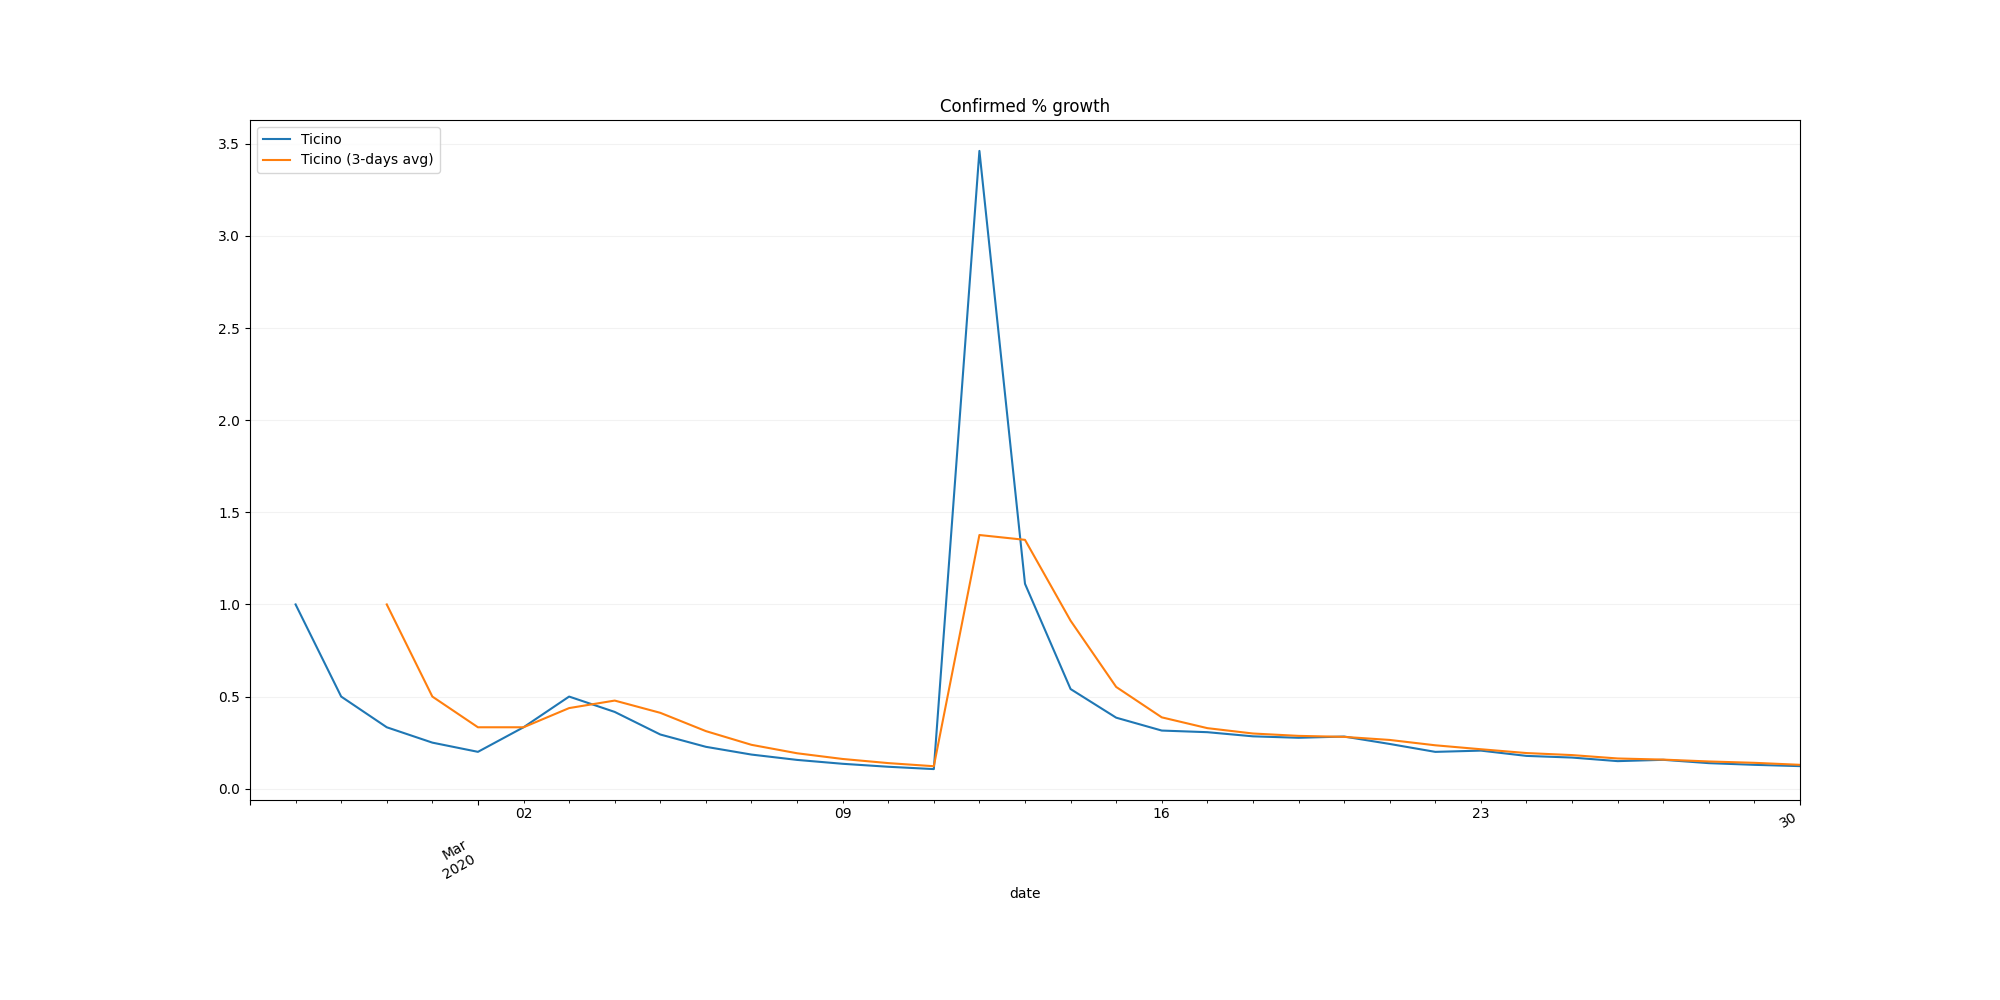
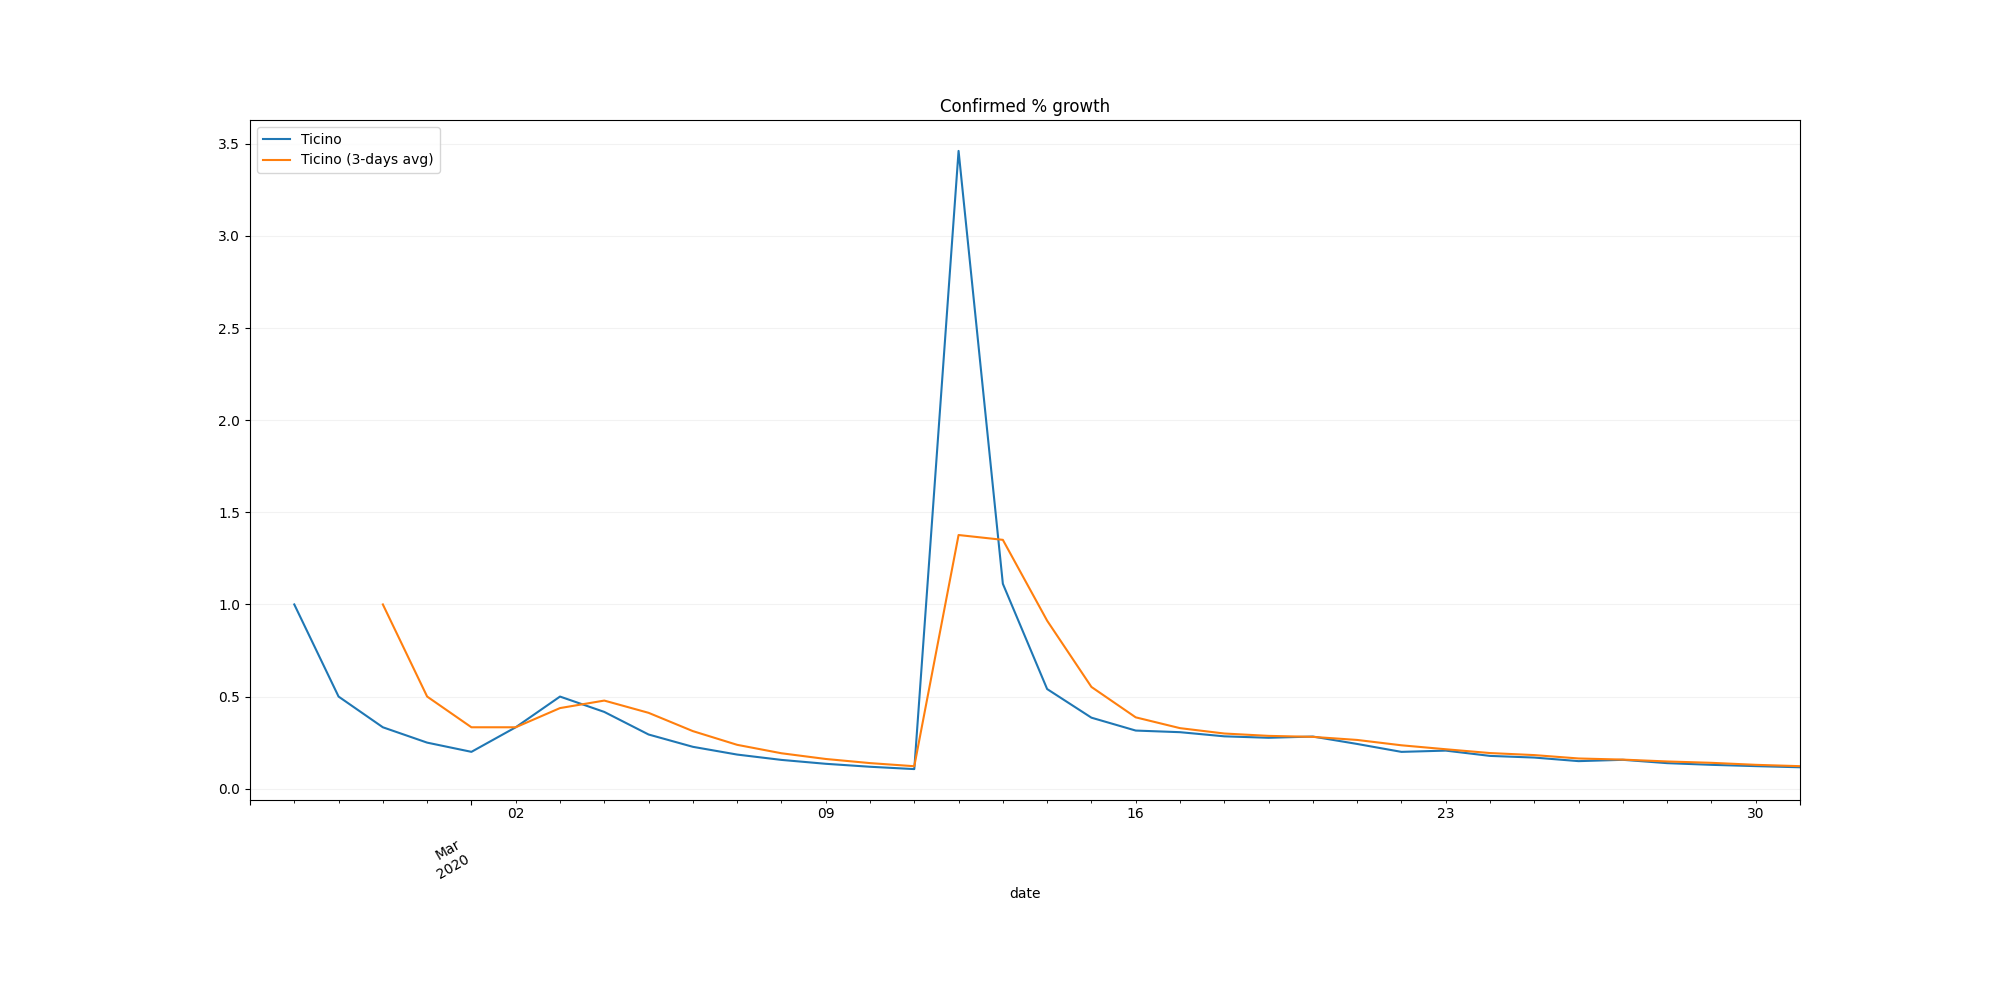
update images at 03/31/20

diff --git a/main.py b/main.py
@@ -4,7 +4,7 @@ import numpy as np
 import matplotlib.pyplot as plt
 
 
-SOURCE = 'local'  # 'local' or 'OpenZH'
+SOURCE = 'OpenZH'  # 'local' or 'OpenZH'
 PLOT_PATH = "images"
 
 FIGSIZE = (20, 10)
